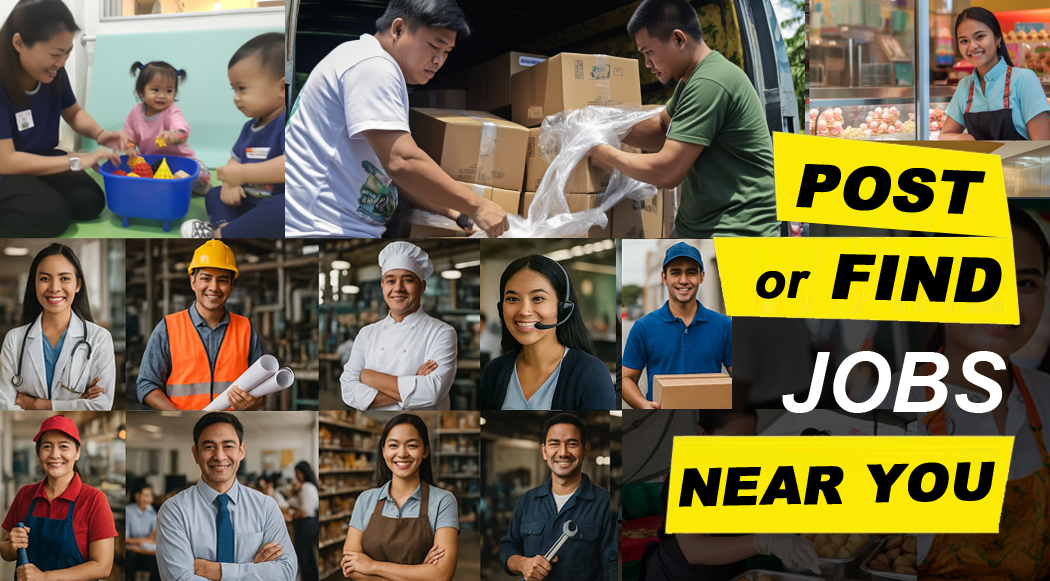
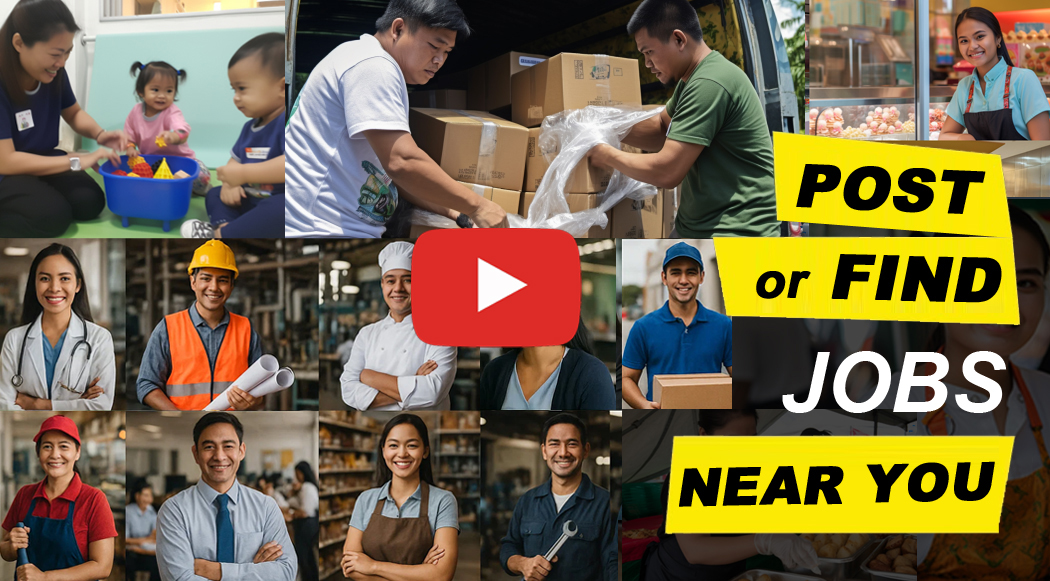
home video

Changed region(s): [[0.3657, 0.3718, 0.579, 0.6196]]

diff --git a/index.html b/index.html
@@ -6,7 +6,7 @@
     <meta name="description" content="GISUGO - A marketplace for searching and posting jobs in your local neighborhood">
     <meta name="keywords" content="local service, gig economy, marketplace, jobs, services">
     <title>GISUGO - Local Service Marketplace</title>
-    <link rel="stylesheet" href="/gisugo-local/public/css/home.css?v=1.1">
+    <link rel="stylesheet" href="/gisugo-local/public/css/home.css?v=1.2">
     <!-- Add favicon -->
     <link rel="icon" type="image/png" href="/gisugo-local/public/images/favicon.png">
   </head>
@@ -45,17 +45,28 @@
 
     <div class="header-spacer"></div>
 
-    <!-- Video Section -->
+    <!-- Video Section with Custom Thumbnail -->
     <section class="video-container">
-      <iframe 
-        width="560" 
-        height="315" 
-        src="https://www.youtube.com/embed/yguwDvqkZnw?si=ryfUhOe_Cb90S3qW" 
-        title="How to use GISUGO" 
-        frameborder="0" 
-        allow="accelerometer; autoplay; clipboard-write; encrypted-media; gyroscope; picture-in-picture" 
-        allowfullscreen>
-      </iframe>
+      <div class="video-wrapper">
+        <!-- Custom Thumbnail Overlay -->
+        <div class="video-thumbnail-overlay" onclick="playVideo()">
+          <img src="/gisugo-local/public/images/GISUGO-thumbnail.jpg" alt="Play GISUGO Video" class="custom-thumbnail">
+          <div class="play-button">▶</div>
+        </div>
+        
+        <!-- Hidden YouTube iframe (revealed on click) -->
+        <iframe 
+          id="youtube-player"
+          width="560" 
+          height="315" 
+          src="https://www.youtube.com/embed/yguwDvqkZnw?si=ryfUhOe_Cb90S3qW&autoplay=1" 
+          title="How to use GISUGO" 
+          frameborder="0" 
+          style="display: none;"
+          allow="accelerometer; autoplay; clipboard-write; encrypted-media; gyroscope; picture-in-picture" 
+          allowfullscreen>
+        </iframe>
+      </div>
     </section>
 
     <!-- Accent Line -->
@@ -340,5 +351,19 @@
     </footer>
     
     <script src="public/js/menu.js"></script>
+    
+    <!-- Video Player Script -->
+    <script>
+      function playVideo() {
+        const overlay = document.querySelector('.video-thumbnail-overlay');
+        const iframe = document.getElementById('youtube-player');
+        
+        // Hide the custom thumbnail overlay
+        overlay.style.display = 'none';
+        
+        // Show and play the YouTube video
+        iframe.style.display = 'block';
+      }
+    </script>
   </body>
 </html>  

diff --git a/public/css/home.css b/public/css/home.css
@@ -980,6 +980,68 @@ section {
   border: 0;
 }
 
+/* Video Wrapper for Overlay */
+.video-wrapper {
+  position: absolute;
+  top: 0;
+  left: 0;
+  width: 100%;
+  height: 100%;
+}
+
+/* Custom Thumbnail Overlay */
+.video-thumbnail-overlay {
+  position: absolute;
+  top: 0;
+  left: 0;
+  width: 100%;
+  height: 100%;
+  cursor: pointer;
+  display: flex;
+  align-items: center;
+  justify-content: center;
+  background: #000;
+  transition: opacity 0.3s ease;
+}
+
+.video-thumbnail-overlay:hover {
+  opacity: 0.95;
+}
+
+/* Custom Thumbnail Image */
+.custom-thumbnail {
+  width: 100%;
+  height: 100%;
+  object-fit: cover;
+  display: block;
+}
+
+/* Play Button Overlay */
+.play-button {
+  position: absolute;
+  top: 50%;
+  left: 50%;
+  transform: translate(-50%, -50%);
+  background: rgba(0, 0, 0, 0.8);
+  color: white;
+  width: clamp(60px, 10vw, 80px);
+  height: clamp(60px, 10vw, 80px);
+  border-radius: 50%;
+  display: flex;
+  align-items: center;
+  justify-content: center;
+  font-size: clamp(20px, 4vw, 28px);
+  font-weight: bold;
+  transition: all 0.3s ease;
+  text-shadow: 2px 2px 4px rgba(0, 0, 0, 0.5);
+}
+
+.play-button:hover {
+  background: rgba(255, 255, 255, 0.9);
+  color: #000;
+  transform: translate(-50%, -50%) scale(1.1);
+}
+
 /* Category Section */
 .category-header {
   background-color: var(--primary-color);
